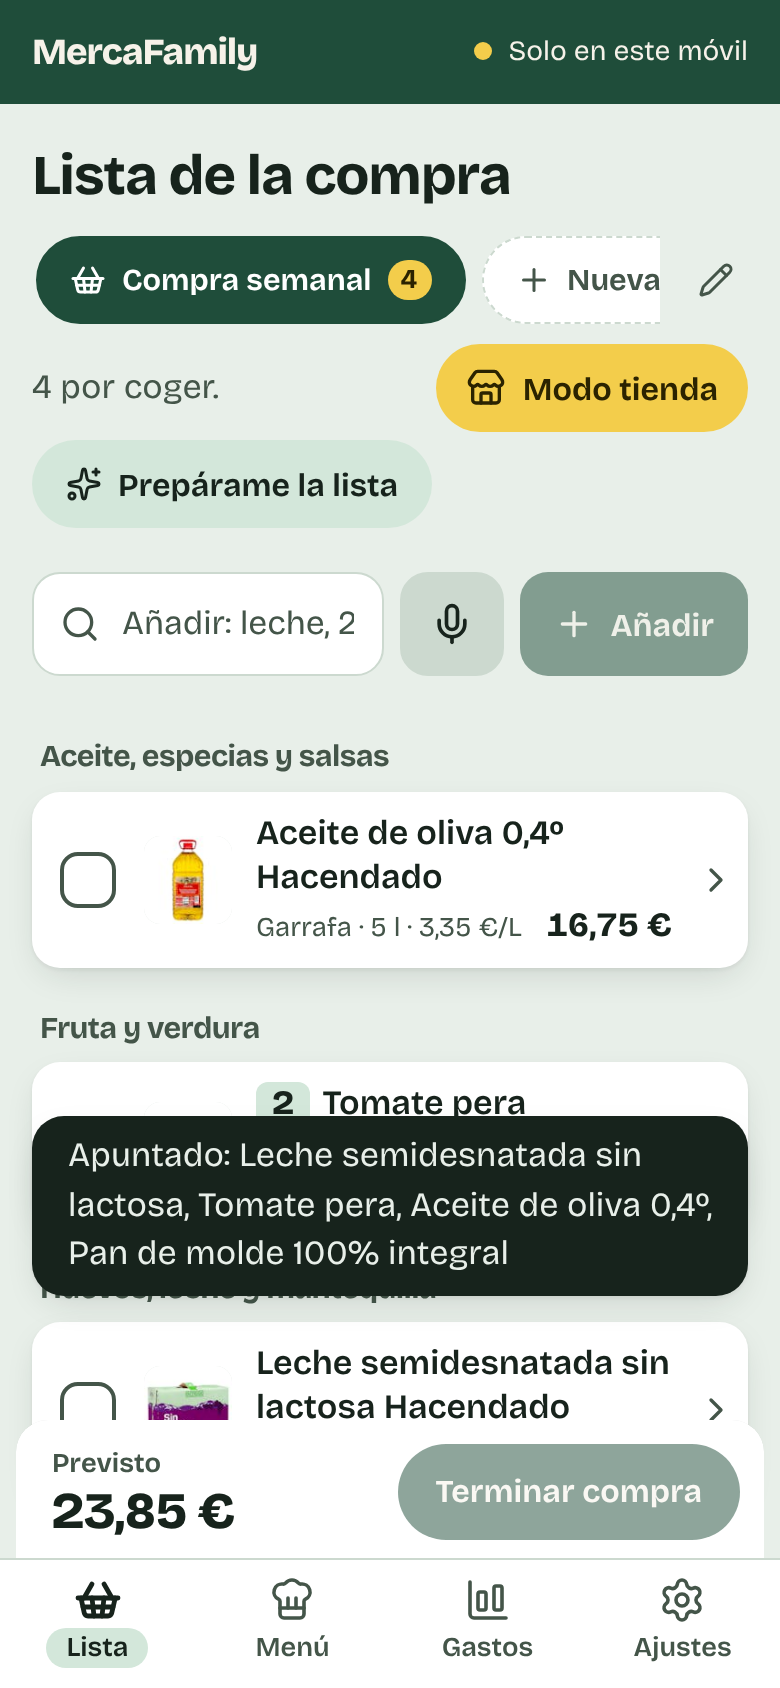
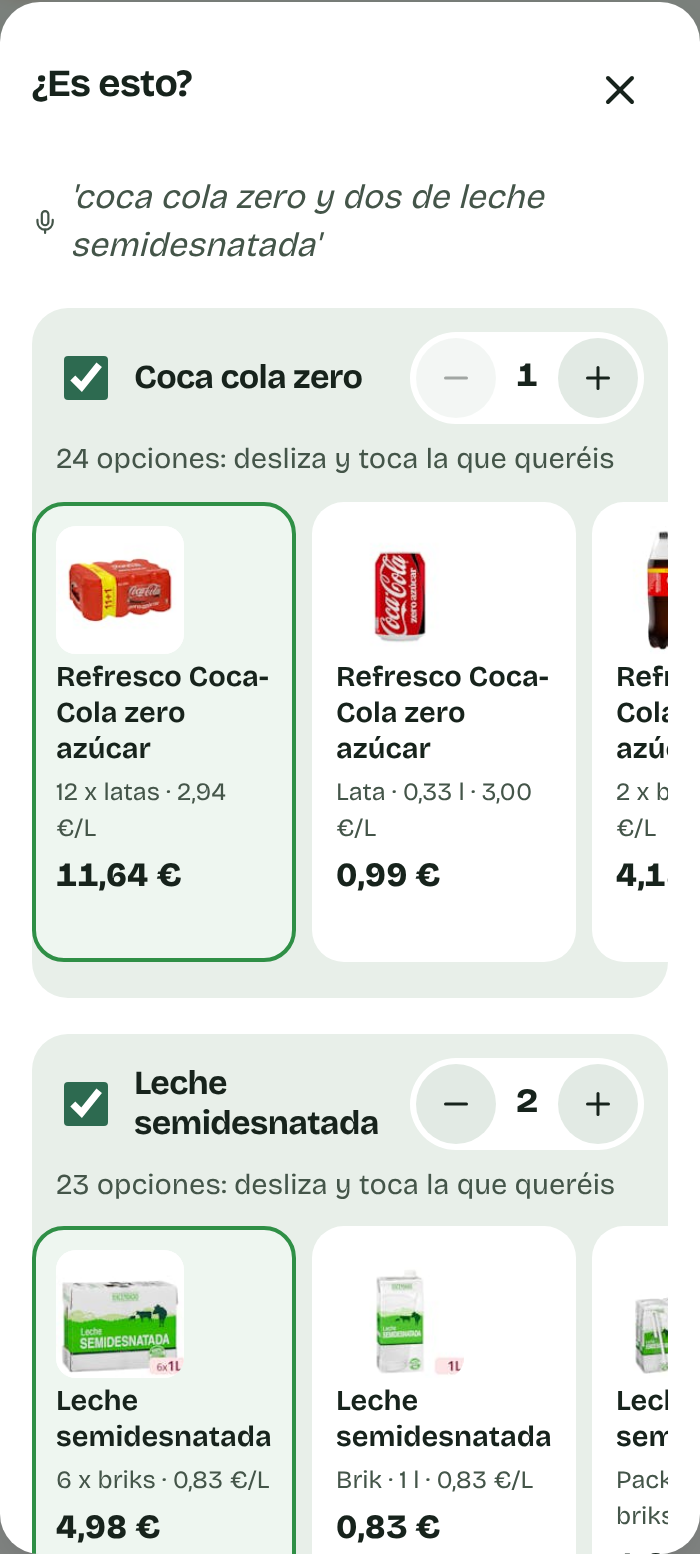
Voz: revisar antes de apuntar, con formatos y tamaños para elegir
Claude-Session: https://claude.ai/code/session_01Sw4ctqfAqbfYJjhqkW3uxc

diff --git a/src/components/VoiceReview.svelte b/src/components/VoiceReview.svelte
@@ -1,0 +1,221 @@
+<script>
+  // Lo dicho por voz, para revisar antes de apuntar: cada cosa con el producto propuesto y los demás formatos y tamaños
+  import { X, Minus, Plus, Mic } from '@lucide/svelte'
+  import { app, searchCatalog, addProduct, addText, toast } from '../lib/data.svelte.js'
+  import { imgUrl, unitLabel } from '../lib/catalog.js'
+  import { eur } from '../lib/format.js'
+  import Sheet from './Sheet.svelte'
+
+  let { phrases, heard = '', onclose } = $props()
+
+  // Cada frase: cantidad, lo que se busca, opciones del catálogo y la elegida (null = apuntar tal cual)
+  let rows = $state(
+    phrases.map((t) => {
+      const m = t.trim().match(/^(\d+)\s*(x\s*)?(.+)$/i)
+      const qty = m ? Math.min(Number(m[1]), 99) || 1 : 1
+      const q = m ? m[3] : t.trim()
+      const options = app.catalog ? searchCatalog(q, 24).map((r) => r.p) : []
+      return { q, qty, options, pick: options[0]?.id ?? null, on: true }
+    })
+  )
+  const count = $derived(rows.filter((r) => r.on).length)
+  let saving = $state(false)
+
+  async function save() {
+    saving = true
+    const names = []
+    for (const r of rows.filter((x) => x.on)) {
+      const p = r.pick != null ? app.catalog?.byId.get(r.pick) : null
+      if (p) {
+        await addProduct(p, r.qty)
+        names.push(p.n.replace(/ Hacendado$/, ''))
+      } else {
+        const it = await addText(`${r.qty} ${r.q}`)
+        if (it?.name) names.push(it.name)
+      }
+    }
+    saving = false
+    toast(names.length ? `Apuntado: ${names.join(', ')}` : 'No se ha apuntado nada', null, 5000)
+    onclose()
+  }
+</script>
+
+<Sheet {onclose} labelledby="voice-title">
+  <div class="sheet-head">
+    <h2 id="voice-title">¿Es esto?</h2>
+    <button class="icon-btn" onclick={onclose} aria-label="Cerrar sin apuntar"><X size={24} aria-hidden="true" /></button>
+  </div>
+  {#if heard}<p class="heard"><Mic size={16} aria-hidden="true" /> '{heard}'</p>{/if}
+
+  {#each rows as r, i (i)}
+    <section class="row" class:off={!r.on} aria-labelledby={`v-${i}`}>
+      <div class="r-head">
+        <label class="inc">
+          <input type="checkbox" bind:checked={r.on} />
+          <h3 id={`v-${i}`}>{r.q.charAt(0).toUpperCase() + r.q.slice(1)}</h3>
+        </label>
+        <div class="qty" role="group" aria-label={`Cantidad de ${r.q}`}>
+          <button class="q-btn" onclick={() => (r.qty = Math.max(1, r.qty - 1))} disabled={r.qty <= 1} aria-label="Una menos"><Minus size={18} aria-hidden="true" /></button>
+          <output class="num">{r.qty}</output>
+          <button class="q-btn" onclick={() => (r.qty = Math.min(99, r.qty + 1))} aria-label="Una más"><Plus size={18} aria-hidden="true" /></button>
+        </div>
+      </div>
+      {#if r.on}
+        {#if r.options.length}
+          <p class="hint">{r.options.length === 1 ? 'Un producto en Mercadona' : `${r.options.length} opciones: desliza y toca la que queréis`}</p>
+          <ul class="opts" role="list" aria-label={`Opciones para ${r.q}`}>
+            {#each r.options as p (p.id)}
+              <li>
+                <button class="opt" aria-pressed={r.pick === p.id} onclick={() => (r.pick = p.id)}>
+                  {#if imgUrl(p)}<img src={imgUrl(p, 120)} alt="" width="64" height="64" loading="lazy" />{:else}<span class="noimg" aria-hidden="true"></span>{/if}
+                  <span class="o-name">{p.n.replace(/ Hacendado$/, '')}</span>
+                  <span class="o-unit">{unitLabel(p)}</span>
+                  <span class="o-price num">{eur(p.p)}</span>
+                </button>
+              </li>
+            {/each}
+            <li>
+              <button class="opt plain" aria-pressed={r.pick === null} onclick={() => (r.pick = null)}>
+                <span class="o-name">Apuntar '{r.q}' tal cual</span>
+                <span class="o-unit">Sin producto, lo elegís en la tienda</span>
+              </button>
+            </li>
+          </ul>
+        {:else}
+          <p class="hint">No está en el catálogo de Mercadona: se apunta tal cual, sin precio.</p>
+        {/if}
+      {/if}
+    </section>
+  {/each}
+
+  <button class="btn btn-primary btn-block" onclick={save} disabled={!count || saving}>{saving ? 'Apuntando…' : count === 1 ? 'Apuntar en la lista' : `Apuntar ${count} en la lista`}</button>
+</Sheet>
+
+<style>
+  .heard {
+    display: flex;
+    align-items: center;
+    gap: 6px;
+    color: var(--ink-2);
+    font-style: italic;
+  }
+  .row {
+    display: grid;
+    gap: 8px;
+    padding: 12px;
+    border-radius: 18px;
+    background: var(--paper);
+  }
+  .row.off {
+    opacity: 0.6;
+  }
+  .r-head {
+    display: flex;
+    align-items: center;
+    gap: 10px;
+  }
+  .inc {
+    flex: 1;
+    min-width: 0;
+    display: flex;
+    align-items: center;
+    gap: 10px;
+    min-height: 44px;
+    cursor: pointer;
+  }
+  .inc input {
+    width: 22px;
+    height: 22px;
+    flex: none;
+  }
+  h3 {
+    font-size: 1.05rem;
+  }
+  .qty {
+    flex: none;
+    display: flex;
+    align-items: center;
+    gap: 4px;
+    padding: 3px;
+    border-radius: 999px;
+    background: var(--surface);
+  }
+  .q-btn {
+    display: grid;
+    place-items: center;
+    width: 40px;
+    height: 40px;
+    border: 0;
+    border-radius: 999px;
+    background: var(--surface-2);
+    color: var(--ink);
+    cursor: pointer;
+  }
+  .q-btn:disabled {
+    opacity: 0.4;
+  }
+  .qty output {
+    min-width: 2ch;
+    text-align: center;
+    font-weight: 800;
+  }
+  .opts {
+    list-style: none;
+    margin: 0 -12px;
+    padding: 2px 12px 6px;
+    display: flex;
+    gap: 8px;
+    overflow-x: auto;
+    scroll-snap-type: x proximity;
+    scrollbar-width: none;
+  }
+  .opts li {
+    flex: none;
+    scroll-snap-align: start;
+  }
+  .opt {
+    width: 8.25rem;
+    height: 100%;
+    display: grid;
+    align-content: start;
+    justify-items: start;
+    gap: 3px;
+    padding: 10px;
+    border: 2px solid transparent;
+    border-radius: 16px;
+    background: var(--surface);
+    color: var(--ink);
+    font: inherit;
+    text-align: left;
+    cursor: pointer;
+  }
+  .opt[aria-pressed='true'] {
+    border-color: var(--c-huerta);
+    background: color-mix(in srgb, var(--c-huerta) 8%, var(--surface));
+  }
+  .opt img,
+  .noimg {
+    width: 64px;
+    height: 64px;
+    border-radius: 10px;
+    background: #fff;
+    object-fit: contain;
+  }
+  .o-name {
+    font-weight: 650;
+    font-size: 0.9rem;
+    line-height: 1.25;
+  }
+  .o-unit {
+    font-size: 0.78rem;
+    color: var(--ink-2);
+  }
+  .o-price {
+    font-weight: 800;
+  }
+  .plain {
+    align-content: center;
+    border-style: dashed;
+    border-color: var(--line);
+  }
+</style>

diff --git a/src/components/AddBar.svelte b/src/components/AddBar.svelte
@@ -2,6 +2,7 @@
   import { Search, Plus, Heart, ScanBarcode, Mic, MicOff } from '@lucide/svelte'
   import { voiceSupported, listen, parseSpoken } from '../lib/voice.js'
   import Scanner from './Scanner.svelte'
+  import VoiceReview from './VoiceReview.svelte'
   import { app, searchCatalog, addProduct, addText, rememberAlias, toast } from '../lib/data.svelte.js'
   import { imgUrl, unitLabel } from '../lib/catalog.js'
   import { inSeason } from '../lib/home.js'
@@ -12,6 +13,7 @@
   let listening = $state(false)
   let heard = $state('')
   let stopVoice = null
+  let review = $state(null)
   const canVoice = voiceSupported()
 
   function toggleVoice() {
@@ -27,15 +29,12 @@
       },
       onEnd: async (final) => {
         listening = false
-        const things = parseSpoken(final || heard)
+        const said = final || heard
+        const things = parseSpoken(said)
         heard = ''
         if (!things.length) return
-        const names = []
-        for (const t of things) {
-          const it = await addText(t)
-          if (it?.name) names.push(it.name.replace(/ Hacendado$/, ''))
-        }
-        toast(`Apuntado: ${names.join(', ')}`, null, 5000)
+        // No se apunta nada sin mirar: se abre la revisión con formatos y tamaños para elegir
+        review = { phrases: things, heard: said }
       }
     })
   }
@@ -185,6 +184,9 @@
 
 {#if scanning}
   <Scanner onclose={() => (scanning = false)} />
+{/if}
+{#if review}
+  <VoiceReview phrases={review.phrases} heard={review.heard} onclose={() => (review = null)} />
 {/if}
 
 <style>

diff --git a/README.md b/README.md
@@ -18,7 +18,7 @@ Lista de la compra familiar compartida en tiempo real, con el catálogo y los pr
   <img src='docs/capturas/peticiones.png' width='190' alt='Petición de un peque pendiente de aceptar en la lista'>
   <img src='docs/capturas/ticket.png' width='190' alt='Ticket que se imprime al terminar la compra con el sello Por debajo del presupuesto'>
   <img src='docs/capturas/bienvenida.png' width='190' alt='Primer paso de la guía de bienvenida'>
-  <img src='docs/capturas/voz.png' width='190' alt='Cuatro productos apuntados de una sola frase con el micrófono'>
+  <img src='docs/capturas/voz.png' width='190' alt='Lo dicho por voz para revisar: cada cosa con su cantidad y los formatos para elegir'>
   <img src='docs/capturas/ticket-foto.png' width='190' alt='Terminar compra con el total y los precios leídos de la foto del ticket'>
   <img src='docs/capturas/avisos.png' width='190' alt='Ajustes de avisos con aviso al salir del trabajo, hora y días'>
   <img src='docs/capturas/comparar.png' width='190' alt='Comparación de lo que más compráis con Dia y Consum por kilo o litro'>
@@ -59,7 +59,7 @@ Lista de la compra familiar compartida en tiempo real, con el catálogo y los pr
 - **Historial de cada producto** en su ficha: cuántas veces lo compráis y cómo ha ido su precio.
 - **Ticket al terminar la compra**, que se imprime con el total y un sello si la semana va por debajo del presupuesto.
 - **Guía de bienvenida** de cuatro pasos (y en Ajustes, Ayuda, para verla otra vez).
-- **Apuntar hablando**: el micrófono entiende 'añade leche, dos de tomate y pan de molde' y apunta cada cosa con su producto.
+- **Apuntar hablando**: el micrófono entiende 'añade leche, dos de tomate y pan de molde' y abre una revisión con cada cosa, su cantidad, el producto propuesto y los demás formatos y tamaños para elegir. No se apunta nada hasta confirmar.
 - **Ticket con foto**: al terminar la compra, una foto del ticket de papel rellena el total y guarda los precios reales de cada producto (el lector se descarga solo la primera vez).
 - **Avisos en el móvil** ([docs/avisos.md](docs/avisos.md)): cuando alguien apunta algo o termina la compra, si os pasáis del presupuesto, el resumen del domingo y un aviso al salir del trabajo si la lista tiene algo. Cada persona elige los suyos.
 - **Formatos**: si otro tamaño del mismo producto sale más barato por kilo o litro ('en garrafa sale un 7 % más barato'), lo dice en la lista y en la ficha, con un botón para cambiar.

diff --git a/CLAUDE.md b/CLAUDE.md
@@ -47,7 +47,7 @@ App familiar para llevar juntos la compra de casa: lista compartida en tiempo re
 | Salud | Cambios más sanos: misma familia o familia parecida, Nutri-Score A o B o dos letras mejor, precio por kilo como mucho un 30 % mayor. Si no hay ninguno real, no se propone nada. |
 | Dinero | Objetivos (`settings.goals` por categoría), ahorro (`settings.savings`, se apunta al cambiar por un producto más barato), tendencia de precio desde `history.json`. Sin tablas nuevas. |
 | Bienvenida | Guía de cuatro pasos la primera vez (`mf:onboarded` en localStorage). No se muestra a navegadores automatizados. |
-| Voz | Web Speech API (`SpeechRecognition`, en iPhone y Android). `src/lib/voice.js` convierte la frase en productos con cantidades. |
+| Voz | Web Speech API (`SpeechRecognition`, en iPhone y Android). `src/lib/voice.js` convierte la frase en productos con cantidades. Nunca se apunta directamente: se abre `VoiceReview.svelte` con cada cosa dicha, su cantidad, el producto propuesto marcado y los demás formatos y tamaños en una fila deslizable, más 'apuntar tal cual'. Se apunta al confirmar. |
 | Ticket con foto | tesseract.js con idioma español, cargado bajo demanda (worker y datos desde CDN la primera vez). `src/lib/ticket.js` lee total y líneas de Mercadona y las une con el carro. Los precios leídos se guardan en `trip_items.price`. |
 | Sin cobertura | `src/lib/offline.js`: los cambios a Supabase pasan por una cola en localStorage (`mf:queue`) y se envían en orden. Lo que falla por red se queda, lo demás se descarta con aviso. Copia local de los datos (`mf:snap`) para abrir sin red. El service worker guarda todos los archivos de `asset-list.json` (lo genera `vite.config.js`) y el catálogo. |
 | Otras tiendas | Función de Supabase `compare` (`supabase/functions/compare`): busca en las APIs públicas de Dia y Consum con caché de 7 días (`compare_cache`). Se compara por kilo o litro y, si no se puede, por envase (avisándolo). El porcentaje más caro o más barato sale siempre junto al precio. Carrefour, Eroski y Caprabo bloquean consultas automáticas (no se fuerzan) y Alcampo no tiene buscador público. |
